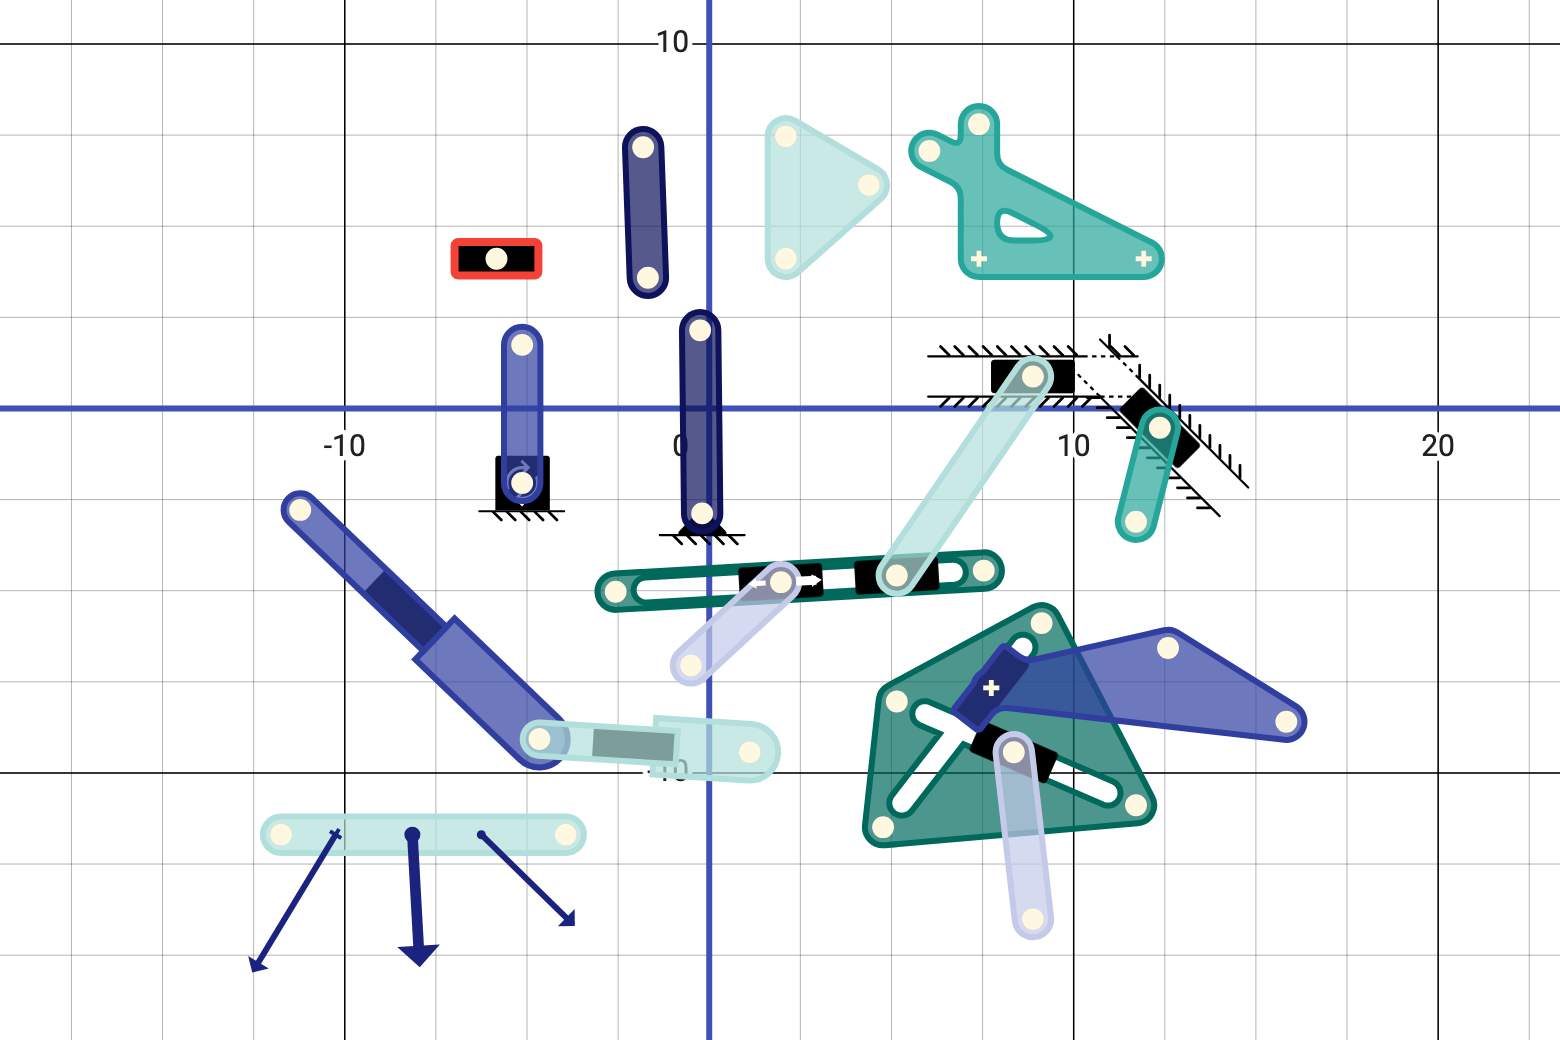
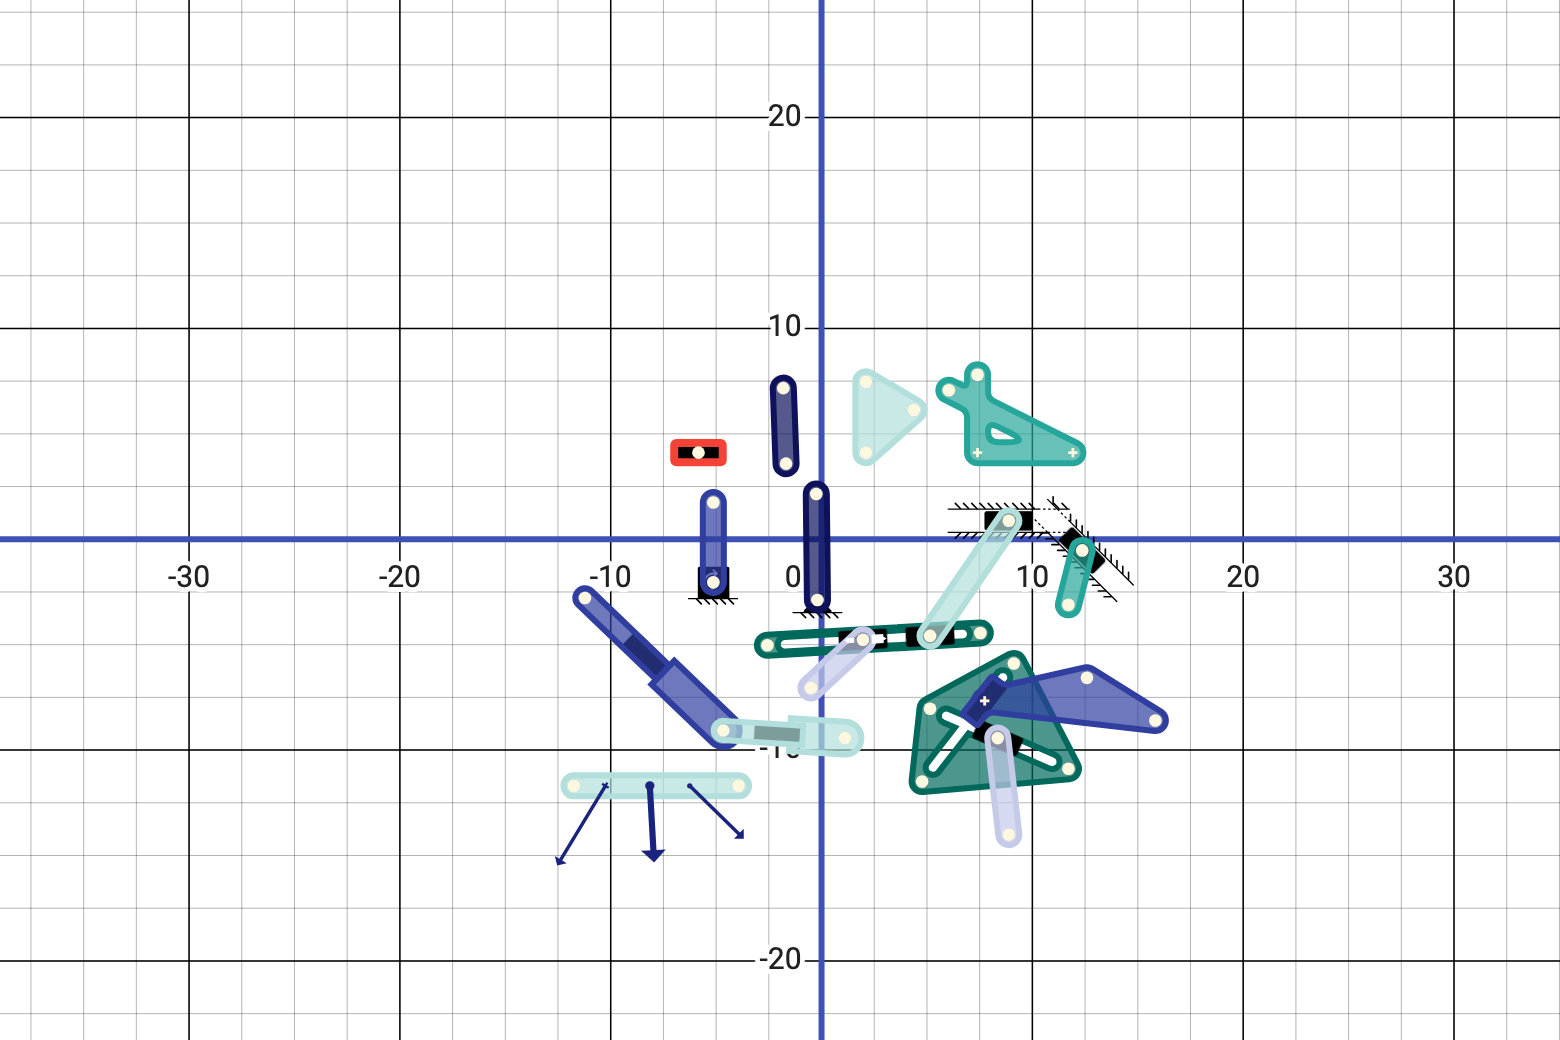
Stand the horse up, and let the cards be read
The horse arrived upside down: MotionGen's y points the way this app's
does, and negating it turned the animal over. It runs counter-clockwise
now, which is the way that carries it forward, with a path traced from
each hoof.

Its object scale is a quarter. Set to 0.5 outright it arrived as 0.003,
because the scale kept in the service is MODEL_SCALE times the one the
settings panel shows -- like every other length in the app -- so a
quarter on screen is fifty in there.

The dev cards were carrying two copies of the same still, one of them
absolutely positioned against the bottom of the card, because that is
how the library cross-fades a GIF over its poster. These have no GIF to
fade to, so the second copy was landing on the words. One image in flow,
and the note clears the Open button rather than being cut in half by it.

The section headings line up with the cards under them, and the first is
called "For Development".

diff --git a/src/app/component/MODALS/templates/dev-templates.ts b/src/app/component/MODALS/templates/dev-templates.ts
@@ -34,8 +34,10 @@ export const DEV_TEMPLATES: Record<DevTemplateID, string> = {
     '2P.VC,1E8.5,0.1011.0B,B,01RD,10C,0.1C,C,01RD,10C,0.0D,D,0SL,1m0,0.0E,E,0QJ,u2,0.0F,F,Wu,1qh,0.0G,G,Wu,10C,0.0H,H,14R,1Vn,0.0I,I,1pf,1vu,0.8J,J,1pf,10C,0.8K,K,2wH,10C,0.0L,L,1UP,1kQ,0.0M,M,01GC,RG,0.6N,N,01GC,0Vx,0.0O,O,03v,XX,0.4P,P,032,0i-,0.0Q,Q,2Ao,Dj,0.0R,R,1GR,017e,0.1S,S,1GR,017e,0,XY,X,Y.5T,T,2Ao,Dj,0.0U,U,31C,08I,0.0V,V,2s_,0mb,0.5W,W,31C,08I,0CH.0X,X,1ri,015V,0.0Y,Y,0e7,01Ea,0.0Z,Z,07q,01kA,0.0[,[,Ul,01AV,0.3\\,\\,Ul,01AV,0,XY,X,Y.0],],018q,02Dk,0.0^,^,01rc,01Yr,0.8_,_,022a,01MP,0.0`,`,02lM,0hW,0.Xa,a,022a,01MP,0,]^,],^.0b,b,HP,02JO,0.0c,c,0NY,02Gq,0.8d,d,0Vv,02GI,0.Xf,f,0Vv,02GI,0,bc,b,c.0g,g,1AZ,02pW,0.0h,h,2EW,01S2,0.0i,i,2s_,02g6,0.0j,j,1GR,01zf,0.0k,k,2Ao,03Qv,0.0l,l,22b,02JO,0.1m,m,22b,02JO,0,ghij,i,j.0n,n,3tQ,026J,0.8o,o,1ux,01tp,0.1p,p,1ux,01tp,0,ghij,g,h.0q,q,02tY,02sl,0.0r,r,0zX,02sl,0.0s,s,34j,01ci,0..YPBC,BC,Fe,0,0,0,,B,C,,.YRDE,DE,Fe,Fe,0RK,1K1,0d125a,D,E,,.YRFGH,FGH,Fe,Fe,ik,1SD,B2DFDB,F,G,H,,.YRIJKL,IJKL,ku,Azlti,27f,1HW,26A69A,I,J,K,L,,IJ,JK,KL.YRMN,MN,Fe,Fe,01GC,02L,303e9f,M,N,,.YROP,OP,Fe,Fe,03U,05l,0d125a,O,P,,.YRQR,QR,Fe,Fe,1jc,0S_,B2DFDB,Q,R,,.YPRS,RS,Fe,0,0,0,,R,S,,.YPQT,QT,Fe,0,0,0,,Q,T,,.YRUV,UV,Fe,Fe,2y5,0SS,26A69A,U,V,,.YPUW,UW,Fe,0,0,0,,U,W,,.YRXY,XY,Fe,Fe,cp,01A1,00695C,X,Y,,.YRZ[,Z[,Fe,Fe,BU,01SK,c5cae9,Z,[,,.YP[\\,[\\,Fe,0,0,0,,[,\\,,.YR]^,]^,Fe,Fe,01VD,01uH,303e9f,],^,,.YR_`,_`,Fe,Fe,02Oz,010z,0d125a,_,`,,.YP_a,_a,Fe,0,0,0,,_,a,,.YRbc,bc,Fe,Fe,034,02I6,B2DFDB,b,c,,.YR]d,]d,Fe,Fe,0qN,02F0,26A69A,d,],,.YPdf,df,Fe,0,0,0,,d,f,,.YRghij,ghij,Fe,Fe,1u7,02Dq,00695C,g,h,i,j,,.YRkl,kl,Fe,Fe,26h,02t9,c5cae9,k,l,,.YPlm,lm,Fe,0,0,0,,l,m,,.YRnos,nos,Fe,Fe,3ES,024-,303e9f,n,o,s,,.YPop,op,Fe,0,0,0,,o,p,,.YRqr,qr,Fe,Fe,01wX,02sl,B2DFDB,q,r,,.NRIJ,IJ,Fe,Fe,1pf,1T2,26A69A,I,J,,.NRJK,JK,Fe,Fe,2Mz,10C,00695C,J,K,,.NRKL,KL,Fe,Fe,2CL,1NJ,c5cae9,K,L,,..2F1,qr,F1,01-H,02sl,01yD,03jf,2SG.2F2,qr,F2,01Xj,02sl,0wz,03Sd,Fe.3F3,qr,F3,02WB,02sl,032z,03mG,Fe..N_a',
   // Ross McSweeney's Running Horse Automata, converted from the copy MotionGen
   // ships with itself: forty-five joints and twenty-seven links on a single
-  // degree of freedom. Its colours are remapped onto this app's own palette,
-  // because the ones it arrives with are not colours this app can draw.
+  // degree of freedom, with a path traced from each hoof. Its colours are
+  // remapped onto this app's own palette, because the ones it arrives with are
+  // not colours this app can draw, and its object scale is turned down because
+  // it is a big drawing whose furniture should not swamp it.
   Dev_Render_Stress:
-    '2P.Ay,1E8.K,0.1011.0A,A,j,4R,0.0B,B,0Ai,5o,0.6C,C,0O,03,0.0D,D,03U,2j,0.0E,E,09Y,09y,0.4F,F,0Dm,02E,0.0G,G,0Ly,04t,0.4H,H,0Hi,06Q,0.4I,I,9_,025,0.4J,J,GC,0Ca,0.4K,K,Iq,02A,0.0L,L,0ct,09u,0.0M,M,0rG,04U,0.0N,N,0In,5-,0.0O,O,0O_,6t,0.0P,P,0T0,2A,0.0Q,Q,0WR,A3,0.0R,R,0WO,KW,0.0S,S,0UW,F_,0.0T,T,0aA,O8,0.0U,U,0ae,S0,0.0V,V,0fO,PL,0.0W,W,0eK,Uy,0.0X,X,3K,08R,0.0Y,Y,E8,098,0.0Z,Z,GG,q,0.0a,a,Bi,2d,0.0b,b,AJ,7n,0.0c,c,Kh,5P,0.0d,d,XZ,0By,0.0e,e,aN,0Ln,0.0f,f,YQ,08o,0.0g,g,kS,0NB,0.0h,h,rW,09c,0.0i,i,o6,07Z,0.0j,j,SR,0Iu,0.0k,k,Xf,0Ui,0.0l,l,UR,0To,0.0m,m,O9,5X,0.0n,n,Mi,E7,0.0o,o,K4,Aj,0.0p,p,HQ,MY,0.0q,q,G9,J3,0.0r,r,C0,If,0.0s,s,C0,O9,0..YRAB,AB,0,Fe,04-,57,c5cae9,A,B,,.YRCDA,CDA,0,Fe,013,2N,303e9f,C,D,A,,.YRDE,DE,0,Fe,06W,03d,0d125a,D,E,,.YREFG,EFG,0,Fe,0F5,05h,B2DFDB,E,F,G,,.YRHBLM,HBLM,0,Fe,0U8,03l,26A69A,H,B,L,M,,.YRDN,DN,0,Fe,0B7,4M,00695C,D,N,,.YRFN,FN,0,Fe,0GH,1u,c5cae9,F,N,,.YRGOP,GOP,0,Fe,0PJ,1P,303e9f,G,O,P,,.YRPNQ,PNQ,0,Fe,0Qk,64,0d125a,P,N,Q,,.YRORS,ORS,0,Fe,0TI,ES,B2DFDB,O,R,S,,.YRQST,QST,0,Fe,0X2,Gk,26A69A,Q,S,T,,.YRRU,RU,0,Fe,0YW,OG,00695C,R,U,,.YRTUVW,TUVW,0,Fe,0ce,R6,c5cae9,T,U,V,W,,.YRDX,DX,0,Fe,05,02t,303e9f,D,X,,.YRXIY,XIY,0,Fe,99,06Z,0d125a,X,I,Y,,.YRYZa,YZa,0,Fe,E1,01w,B2DFDB,Y,Z,a,,.YRIb,Ib,0,Fe,A9,2s,26A69A,I,b,,.YRDb,Db,0,Fe,3R,5F,00695C,D,b,,.YRAc,Ac,0,Fe,Ai,4w,c5cae9,A,c,,.YRKd,Kd,0,Fe,QC,073,303e9f,K,d,,.YRJefc,Jefc,0,Fe,Qw,09R,0d125a,J,e,f,c,,.YReghidjkl,eghidjkl,0,Fe,d3,0JB,B2DFDB,e,g,h,i,d,j,k,l,,.YRbZm,bZm,0,Fe,Gv,4j,26A69A,b,Z,m,,.YRano,ano,0,Fe,I9,99,00695C,a,n,o,,.YRomp,omp,0,Fe,KY,Cx,c5cae9,o,m,p,,.YRnq,nq,0,Fe,JR,Gb,303e9f,n,q,,.YRqprs,qprs,0,Fe,EP,L6,0d125a,q,p,r,s,,...N_J',
+    '2P.3w,1E8.K,0.1011.0A,A,j,04R,0.0B,B,0Ai,05o,0.6C,C,0O,3,0,,,,1E8.0D,D,03U,02j,0.0E,E,09Y,9y,0.4F,F,0Dm,2E,0.0G,G,0Ly,4t,0.4H,H,0Hi,6Q,0.4I,I,9_,25,0.4J,J,GC,Ca,0.4K,K,Iq,2A,0.0L,L,0ct,9u,0.0M,M,0rG,4U,0.0N,N,0In,05-,0.0O,O,0O_,06t,0.0P,P,0T0,02A,0.0Q,Q,0WR,0A3,0.0R,R,0WO,0KW,0.0S,S,0UW,0F_,0.0T,T,0aA,0O8,0.0U,U,0ae,0S0,0.0V,V,0fO,0PL,0.GW,W,0eK,0Uy,0.0X,X,3K,8R,0.0Y,Y,E8,98,0.0Z,Z,GG,0q,0.0a,a,Bi,02d,0.0b,b,AJ,07n,0.0c,c,Kh,05P,0.0d,d,XZ,By,0.0e,e,aN,Ln,0.0f,f,YQ,8o,0.0g,g,kS,NB,0.0h,h,rW,9c,0.0i,i,o6,7Z,0.0j,j,SR,Iu,0.0k,k,Xf,Ui,0.0l,l,UR,To,0.0m,m,O9,05X,0.0n,n,Mi,0E7,0.0o,o,K4,0Aj,0.0p,p,HQ,0MY,0.0q,q,G9,0J3,0.0r,r,C0,0If,0.Gs,s,C0,0O9,0..YRAB,AB,0,Fe,04-,057,c5cae9,A,B,,.YRCDA,CDA,0,Fe,013,02N,303e9f,C,D,A,,.YRDE,DE,0,Fe,06W,3d,0d125a,D,E,,.YREFG,EFG,0,Fe,0F5,5h,B2DFDB,E,F,G,,.YRHBLM,HBLM,0,Fe,0U8,3l,26A69A,H,B,L,M,,.YRDN,DN,0,Fe,0B7,04M,00695C,D,N,,.YRFN,FN,0,Fe,0GH,01u,c5cae9,F,N,,.YRGOP,GOP,0,Fe,0PJ,01P,303e9f,G,O,P,,.YRPNQ,PNQ,0,Fe,0Qk,064,0d125a,P,N,Q,,.YRORS,ORS,0,Fe,0TI,0ES,B2DFDB,O,R,S,,.YRQST,QST,0,Fe,0X2,0Gk,26A69A,Q,S,T,,.YRRU,RU,0,Fe,0YW,0OG,00695C,R,U,,.YRTUVW,TUVW,0,Fe,0ce,0R6,c5cae9,T,U,V,W,,.YRDX,DX,0,Fe,05,2t,303e9f,D,X,,.YRXIY,XIY,0,Fe,99,6Z,0d125a,X,I,Y,,.YRYZa,YZa,0,Fe,E1,1w,B2DFDB,Y,Z,a,,.YRIb,Ib,0,Fe,A9,02s,26A69A,I,b,,.YRDb,Db,0,Fe,3R,05F,00695C,D,b,,.YRAc,Ac,0,Fe,Ai,04w,c5cae9,A,c,,.YRKd,Kd,0,Fe,QC,73,303e9f,K,d,,.YRJefc,Jefc,0,Fe,Qw,9R,0d125a,J,e,f,c,,.YReghidjkl,eghidjkl,0,Fe,d3,JB,B2DFDB,e,g,h,i,d,j,k,l,,.YRbZm,bZm,0,Fe,Gv,04j,26A69A,b,Z,m,,.YRano,ano,0,Fe,I9,099,00695C,a,n,o,,.YRomp,omp,0,Fe,KY,0Cx,c5cae9,o,m,p,,.YRnq,nq,0,Fe,JR,0Gb,303e9f,n,q,,.YRqprs,qprs,0,Fe,EP,0L6,0d125a,q,p,r,s,,...N_c',
 };

diff --git a/src/app/component/MODALS/templates/templates.component.html b/src/app/component/MODALS/templates/templates.component.html
@@ -10,12 +10,11 @@
     <!-- Drawings for working on the app rather than for learning a linkage.
          First, because that is where whoever wants them is looking. -->
     @if (isDevMode()) {
-      <h2 class="section-heading">Dev</h2>
+      <h2 class="section-heading">For Development</h2>
       <div class="linkage-grid devGrid">
         <panel-section (click)="openLinkage('Dev_All_Mechanism_Types')">
           <title-block>Every Kind of Machine</title-block>
           <img src="assets/gifs/dev-all-machines.png" alt="Every Kind of Machine" />
-          <img class="static" src="assets/gifs/dev-all-machines.png" alt="Every Kind of Machine" />
           <p class="dev-note">
             A crank, a ram, a slider and a chain that never reaches ground — every readiness state
             and every playback row at once.
@@ -26,9 +25,9 @@
         <panel-section (click)="openLinkage('Dev_Object_Gallery')">
           <title-block>Object Gallery</title-block>
           <img src="assets/gifs/dev-object-gallery.png" alt="Object Gallery" />
-          <img class="static" src="assets/gifs/dev-object-gallery.png" alt="Object Gallery" />
           <p class="dev-note">
-            One of everything the canvas draws, laid out in rows. Deliberately not simulatable.
+            Every kind of pin, block, weld, slot and cylinder, with forces. Deliberately not
+            simulatable.
           </p>
           <button mat-flat-button color="primary">Open</button>
         </panel-section>
@@ -36,10 +35,9 @@
         <panel-section (click)="openLinkage('Dev_Render_Stress')">
           <title-block>Render Stress Test</title-block>
           <img src="assets/gifs/dev-render-stress.png" alt="Render Stress Test" />
-          <img class="static" src="assets/gifs/dev-render-stress.png" alt="Render Stress Test" />
           <p class="dev-note">
-            Twenty joints and thirteen links on one degree of freedom, every moving joint tracing
-            its path.
+            Ross McSweeney's Running Horse Automata, from MotionGen: forty-five joints and
+            twenty-seven links on one degree of freedom, tracing both hooves.
           </p>
           <button mat-flat-button color="primary">Open</button>
         </panel-section>

diff --git a/src/app/component/MODALS/templates/templates.component.scss b/src/app/component/MODALS/templates/templates.component.scss
@@ -110,16 +110,31 @@
 }
 
 // The dev section's heading and its cards, which have no artwork to show.
+// Lined up with the cards under it, which carry the grid's own left inset.
 .section-heading {
   margin: 4px 0 10px;
+  padding-left: 10px;
   font-size: 15px;
   font-weight: 500;
   color: rgba(0, 0, 0, 0.55);
 }
 
+// A dev card has one still image and a line about it, in flow -- no animated
+// variant to cross-fade to, and so no absolutely-positioned copy landing on
+// top of the words. The bottom padding is the Open button's room.
 .dev-note {
-  margin: 8px 0 4px;
+  margin: 8px 0 0;
+  // Clear of the Open button, which is positioned against the card's bottom
+  // right corner -- text flowing under it is text the button cuts in half.
+  padding-bottom: 52px;
   font-size: 12px;
   line-height: 17px;
   color: rgba(0, 0, 0, 0.55);
+}
+
+.devGrid panel-section img {
+  position: static;
+  width: 100%;
+  height: auto;
+  display: block;
 }
